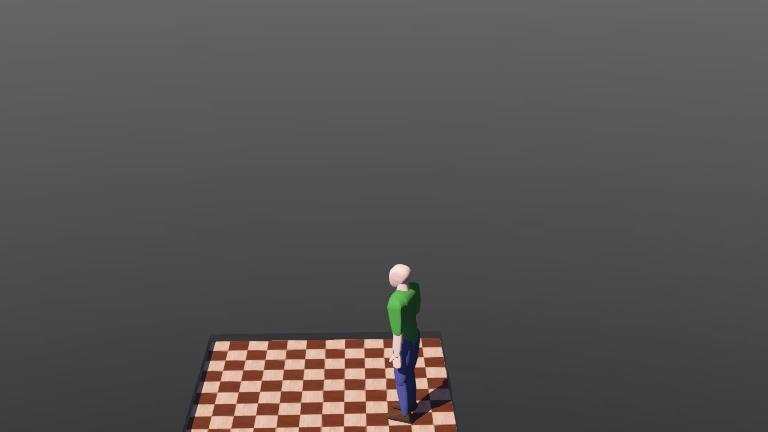
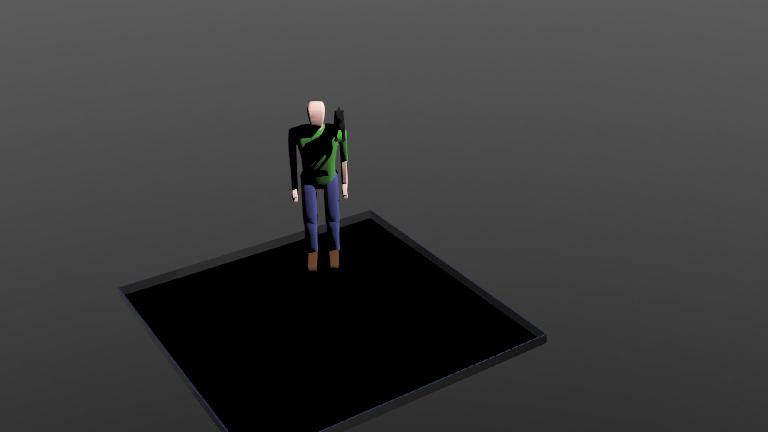
Actualiza simulacion del parcial2 ejemplo1

Changed region(s): [[0.1562, 0.2106, 0.7188, 1.0]]

diff --git a/Examples/ejemplo1/controllers/my_controller/my_controller.py b/Examples/ejemplo1/controllers/my_controller/my_controller.py
@@ -5,114 +5,155 @@ import math
 supervisor = Supervisor()
 paso_tiempo = int(supervisor.getBasicTimeStep())
 
-# Obtener el nodo del humanoide
+# --- Obtener nodos ---
 nodo_peaton = supervisor.getFromDef("pedestrian1")
 if nodo_peaton is None:
-    print("ERROR: No se encontró el nodo con DEF del humanoide")
+    print("ERROR: No se encontró el nodo con DEF 'pedestrian1'")
+
+# Obtener el nodo del gato
+nodo_gato = supervisor.getFromDef("cat")
+if nodo_gato is None:
+    print("ERROR: No se encontró el nodo con DEF 'cat'")
+    
+    
+# Obtener el nodo del gato
+nodo_botella = supervisor.getFromDef("bottle")
+if nodo_botella is None:
+    print("ERROR: No se encontró el nodo con DEF 'bottle'")
 
 # Parámetros de movimiento
 TAMANO_PASO = 0.05          # metros por paso
 PASO_ANGULO = math.pi / 36  # 5 grados por paso
+
+# Coordenadas relativas del gato (Hombro izquierdo)
+# Estas son las que proporcionaste: x=0.08, y=0.22, z=1.5
+OFFSET_GATO = Matrix([0.08, 0.22, 0.2])
+
+OFFSET_BOTELLA = Matrix([0.05, -0.3, -0.6])
 
 # Activar teclado
 teclado = supervisor.getKeyboard()
 teclado.enable(paso_tiempo)
 
 # ---------------------------------------------------------------
-# Desplazamiento en X o Y del sistema de referencia del humanoide
+# Función para sincronizar al gato
+# ---------------------------------------------------------------
+def actualizar_posicion_accesorios():
+    if nodo_peaton is not None and nodo_gato is not None:
+        # Obtener posición y rotación actual del humanoide
+        campo_tras = nodo_peaton.getField("translation")
+        campo_rot = nodo_peaton.getField("rotation")
+        
+        pos = campo_tras.getSFVec3f()
+        _, _, _, angulo = campo_rot.getSFRotation()
+        
+        P_humano = Matrix([pos[0], pos[1], pos[2]])
+
+        # Matriz de rotación R_z(θ) del humanoide
+        R_z = Matrix([
+            [cos(angulo), -sin(angulo), 0],
+            [sin(angulo),  cos(angulo), 0],
+            [          0,            0, 1]
+        ])
+
+        # Calcular posición mundial del gato: P_h + R_z * Offset
+        P_nueva_gato = P_humano + (R_z * OFFSET_GATO)
+        # Calcular posición mundial de la botella: P_h + R_z * Offset
+        P_nueva_botella = P_humano + (R_z * OFFSET_BOTELLA)
+        
+        
+        # Aplicar al gato
+        nodo_gato.getField("translation").setSFVec3f([
+            float(P_nueva_gato[0]),
+            float(P_nueva_gato[1]),
+            float(P_nueva_gato[2])
+        ])
+        
+        
+        # Aplicar a lA BOTELLA
+        nodo_botella.getField("translation").setSFVec3f([
+            float(P_nueva_botella[0]),
+            float(P_nueva_botella[1]),
+            float(P_nueva_botella[2])
+        ])
+        # Que el gato rote igual que el humano
+        nodo_gato.getField("rotation").setSFRotation([0, 0, 1, angulo])
+        
+        # Que la botella rote igual que el humano
+        nodo_botella.getField("rotation").setSFRotation([0, 0, 1, angulo])
+
+# ---------------------------------------------------------------
+# Desplazamiento del humanoide
 # ---------------------------------------------------------------
 def trasladar(nodo, dx_local, dy_local):
-    """
-    P_nueva = P_vieja + R_z(θ) * d_local
-
-    R_z(θ) = | cos θ  -sin θ  0 |   d_local = | dx_local |
-              | sin θ   cos θ  0 |              | dy_local |
-              |   0       0    1 |              |    0     |
-    """
-    # Posición actual como vector columna
     campo_traslacion = nodo.getField("translation")
     pos = campo_traslacion.getSFVec3f()
     P_vieja = Matrix([pos[0], pos[1], pos[2]])
 
-    # Ángulo actual del humanoide
     campo_rotacion = nodo.getField("rotation")
     _, _, _, angulo = campo_rotacion.getSFRotation()
 
-    # Matriz de rotación R_z(θ)
     R_z = Matrix([
         [cos(angulo), -sin(angulo), 0],
         [sin(angulo),  cos(angulo), 0],
         [          0,            0, 1]
     ])
 
-    # Vector de desplazamiento en sistema local
     d_local = Matrix([dx_local, dy_local, 0])
-
-    # Rotación del vector local al sistema mundial
     d_mundial = R_z * d_local
-
-    # Suma vectorial
     P_nueva = P_vieja + d_mundial
 
-    # Aplicar al nodo (evaluar a float antes de enviar a Webots)
     campo_traslacion.setSFVec3f([
         float(P_nueva[0]),
         float(P_nueva[1]),
         float(P_nueva[2])
     ])
 
-
 # ---------------------------------------------------------------
-# Rotación alrededor de Z (horario / antihorario)
+# Rotación del humanoide
 # ---------------------------------------------------------------
 def rotar_z(nodo, delta_angulo):
-    """
-    R_nueva = R_z(Δθ) * R_z(θ) = R_z(θ + Δθ)
-    """
-
-    # Formato axis-angle [0, 0, 1, θ]
+    campo_rotacion = nodo.getField("rotation")
+    _, _, _, angulo = campo_rotacion.getSFRotation()
     campo_rotacion.setSFRotation([0, 0, 1, angulo + delta_angulo])
 
+# ---------------------------------------------------------------
+# Instrucciones
+# ---------------------------------------------------------------
+print("=== Control con Gato en el Hombro ===")
+print("Flechas: Mover | Q/E: Rotar")
+print("=====================================")
+
+# --- Verificación de Nodos ---
+if nodo_peaton is None:
+    print("❌ ERROR CRÍTICO: No se encuentra 'pedestrian1' en el mundo.")
+else:
+    print("✅ Humanoide encontrado.")
+
+if nodo_gato is None:
+    print("❌ ERROR CRÍTICO: No se encuentra 'cat' en el mundo. Revisa el DEF en Webots.")
+else:
+    print("✅ Gato encontrado.")
 
 # ---------------------------------------------------------------
-# Instrucciones en consola
-# ---------------------------------------------------------------
-print("=== Control de teclado ===")
-print("↑ / ↓  → Mover adelante / atrás    (eje X local)")
-print("← / →  → Mover izquierda / derecha (eje Y local)")
-print("Q / E  → Rotar antihorario / horario (alrededor de Z)")
-print("==========================")
-
-# ---------------------------------------------------------------
-# Bucle principal - Tiempo - Simulación
+# Bucle principal
 # ---------------------------------------------------------------
 while supervisor.step(paso_tiempo) != -1:
-
     tecla = teclado.getKey()
 
-    if nodo_peaton is not None and tecla != -1:
-
-        # --- Traslación en eje X del humanoide (adelante / atrás) ---
+    if nodo_peaton is not None:
         if tecla == Keyboard.UP:
-            print("Adelante")
             trasladar(nodo_peaton, TAMANO_PASO, 0.0)
-
         elif tecla == Keyboard.DOWN:
-            print("Atras")
             trasladar(nodo_peaton, -TAMANO_PASO, 0.0)
-
-        # --- Traslación en eje Y del humanoide (izquierda / derecha) ---
         elif tecla == Keyboard.LEFT:
-            print("Izquierda")
             trasladar(nodo_peaton, 0.0, TAMANO_PASO)
-
         elif tecla == Keyboard.RIGHT:
-            print("Derecha")
             trasladar(nodo_peaton, 0.0, -TAMANO_PASO)
-
-        # --- Rotación alrededor de Z ---
         elif tecla == ord('Q'):
-            rotar_z(nodo_peaton, PASO_ANGULO)   # Antihorario
-
+            rotar_z(nodo_peaton, PASO_ANGULO)
         elif tecla == ord('E'):
-            rotar_z(nodo_peaton, -PASO_ANGULO)  # Horario
+            rotar_z(nodo_peaton, -PASO_ANGULO)
+
+    # Actualizar al gato siempre (para que siga al humano incluso al rotar)
+    actualizar_posicion_accesorios()

diff --git a/Examples/ejemplo1/README2.md b/Examples/ejemplo1/README2.md
@@ -1,0 +1,31 @@
+Andrés José Echeverría rada ----- parcial simulación
+
+-Agrege una botella independiente la llame “bottle” en el mundo esta botella inicialmente tenia una masas de 0.4 lo cual hacía que callera constantemente hasta llegar al suelo ósea nuestra base.
+Para las físicas de la botella que queda en la mano hice lo mismo que con el gato
+
+-Primero tome para ver si existía en el mundo usando su nombre que le asigne bottle.
+
+-Despues le asigne coordenadas en el mundo 
+OFFSET_BOTELLA = Matrix([0.05, -0.3, -0.6])
+
+-Despues cree una funsion para los dos gato y botella llamada (actualizar_posicion_accesorios())
+
+-Después tome la posición y traslación del humanoide y su matriz de rotación.
+
+-Después busque la nueva posición de la botella si nos damos cuenta tomamos la misma que use con el gato le sumamos la del humanoide debemos tener en cuenta que esto se calcula respecto al mundo 
+(# Calcular posición mundial de la botella: P_h + R_z * Offset
+P_nueva_botella = P_humano + (R_z * OFFSET_BOTELLA))
+
+-Despues se lo asigno a la botella igual que al gato esto para la traslación
+        nodo_botella.getField("translation").setSFVec3f([
+            float(P_nueva_botella[0]),
+            float(P_nueva_botella[1]),
+            float(P_nueva_botella[2])
+        ])
+-Despues agrege la rotacion
+# Que la botella rote igual que el humano
+nodo_botella.getField("rotation").setSFRotation([0, 0, 1, angulo])
+
+-y por ultimo llame a la función para actualizar  
+# Actualizar accesorios (para que siga al humano incluso al rotar)
+actualizar_posicion_accesorios()
